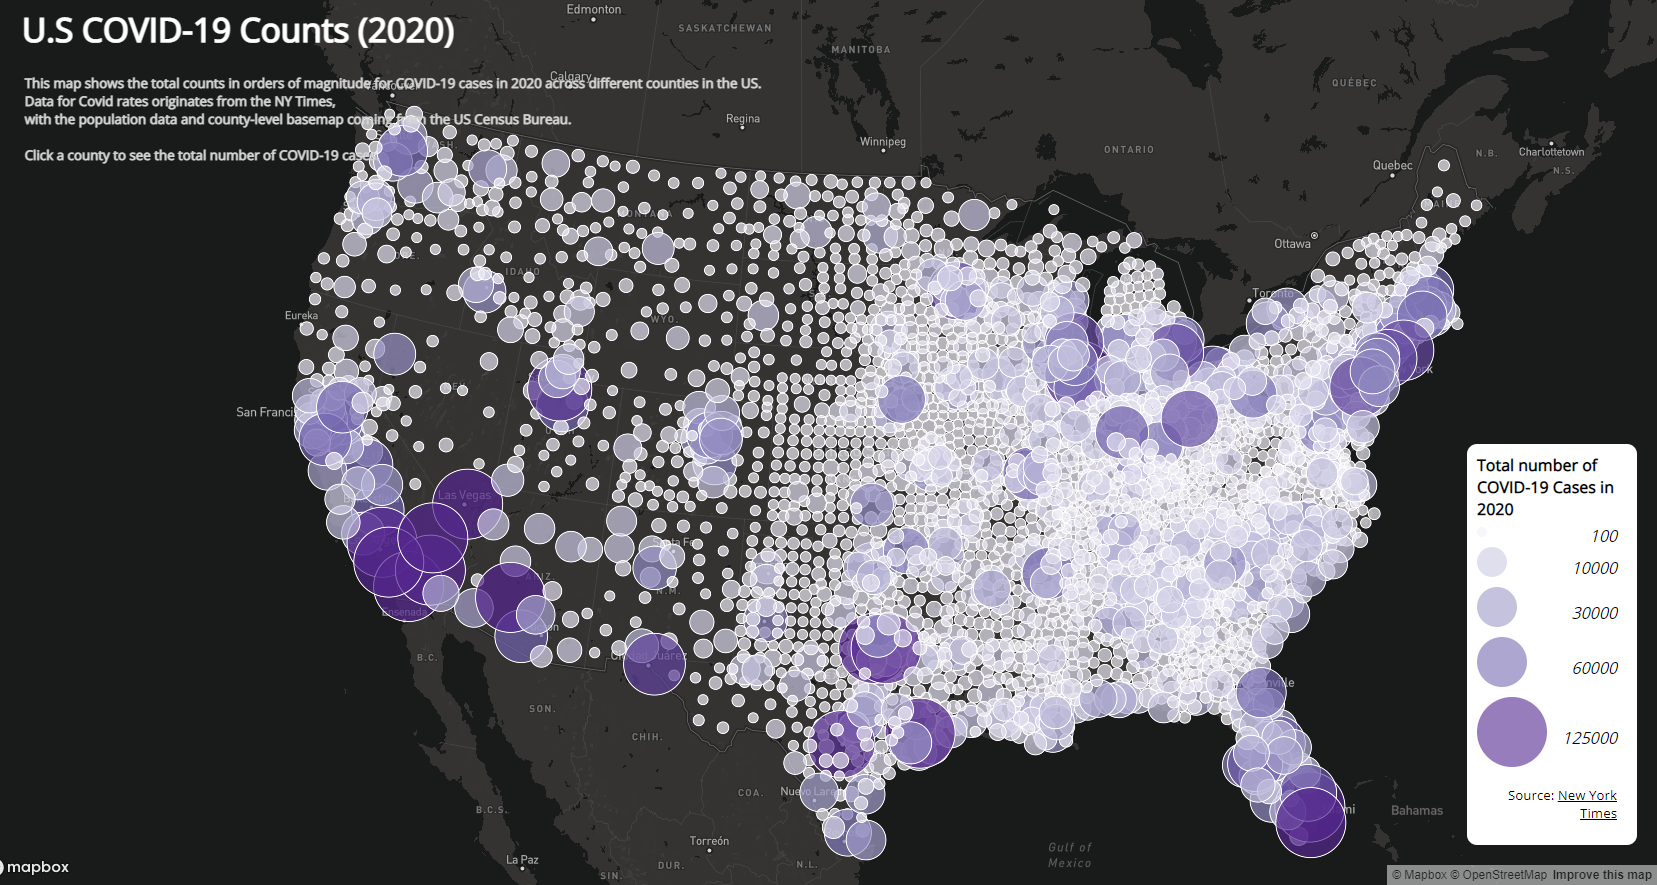
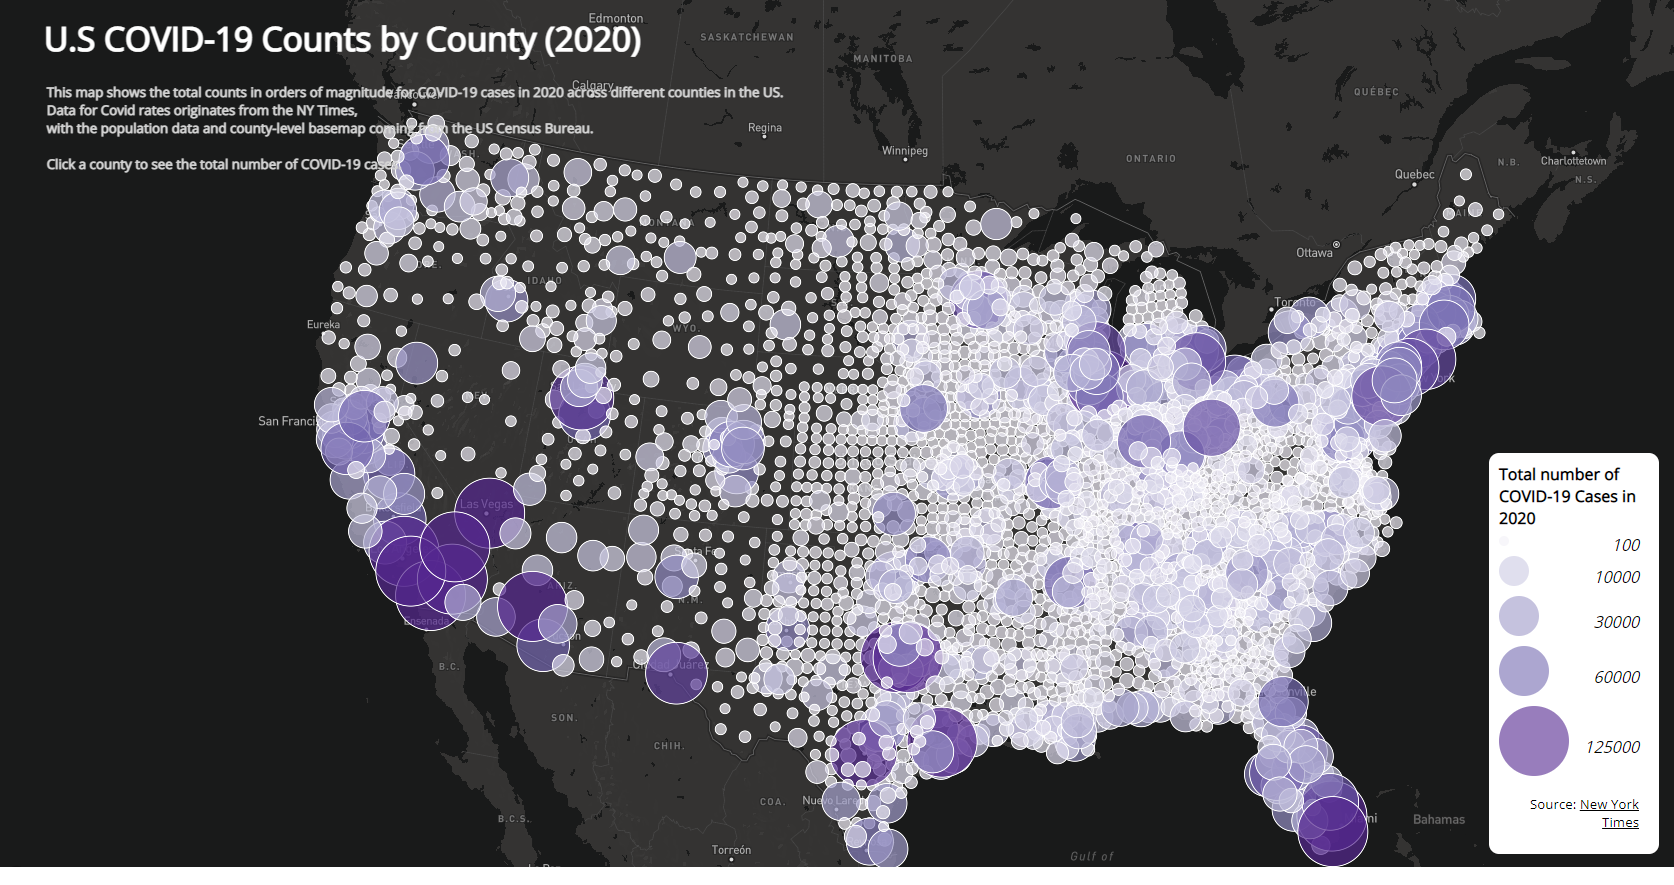
update map2 title and img

diff --git a/map2.html b/map2.html
@@ -102,7 +102,7 @@
     <div id="map"></div>
     <div id="legend"></div>
     <div id="title">
-        U.S COVID-19 Counts (2020)
+        U.S COVID-19 Counts by County (2020)
     </div>
     <div id="desc">
         This map shows the total counts in orders of magnitude for COVID-19 cases in 2020 across different counties in the US.
